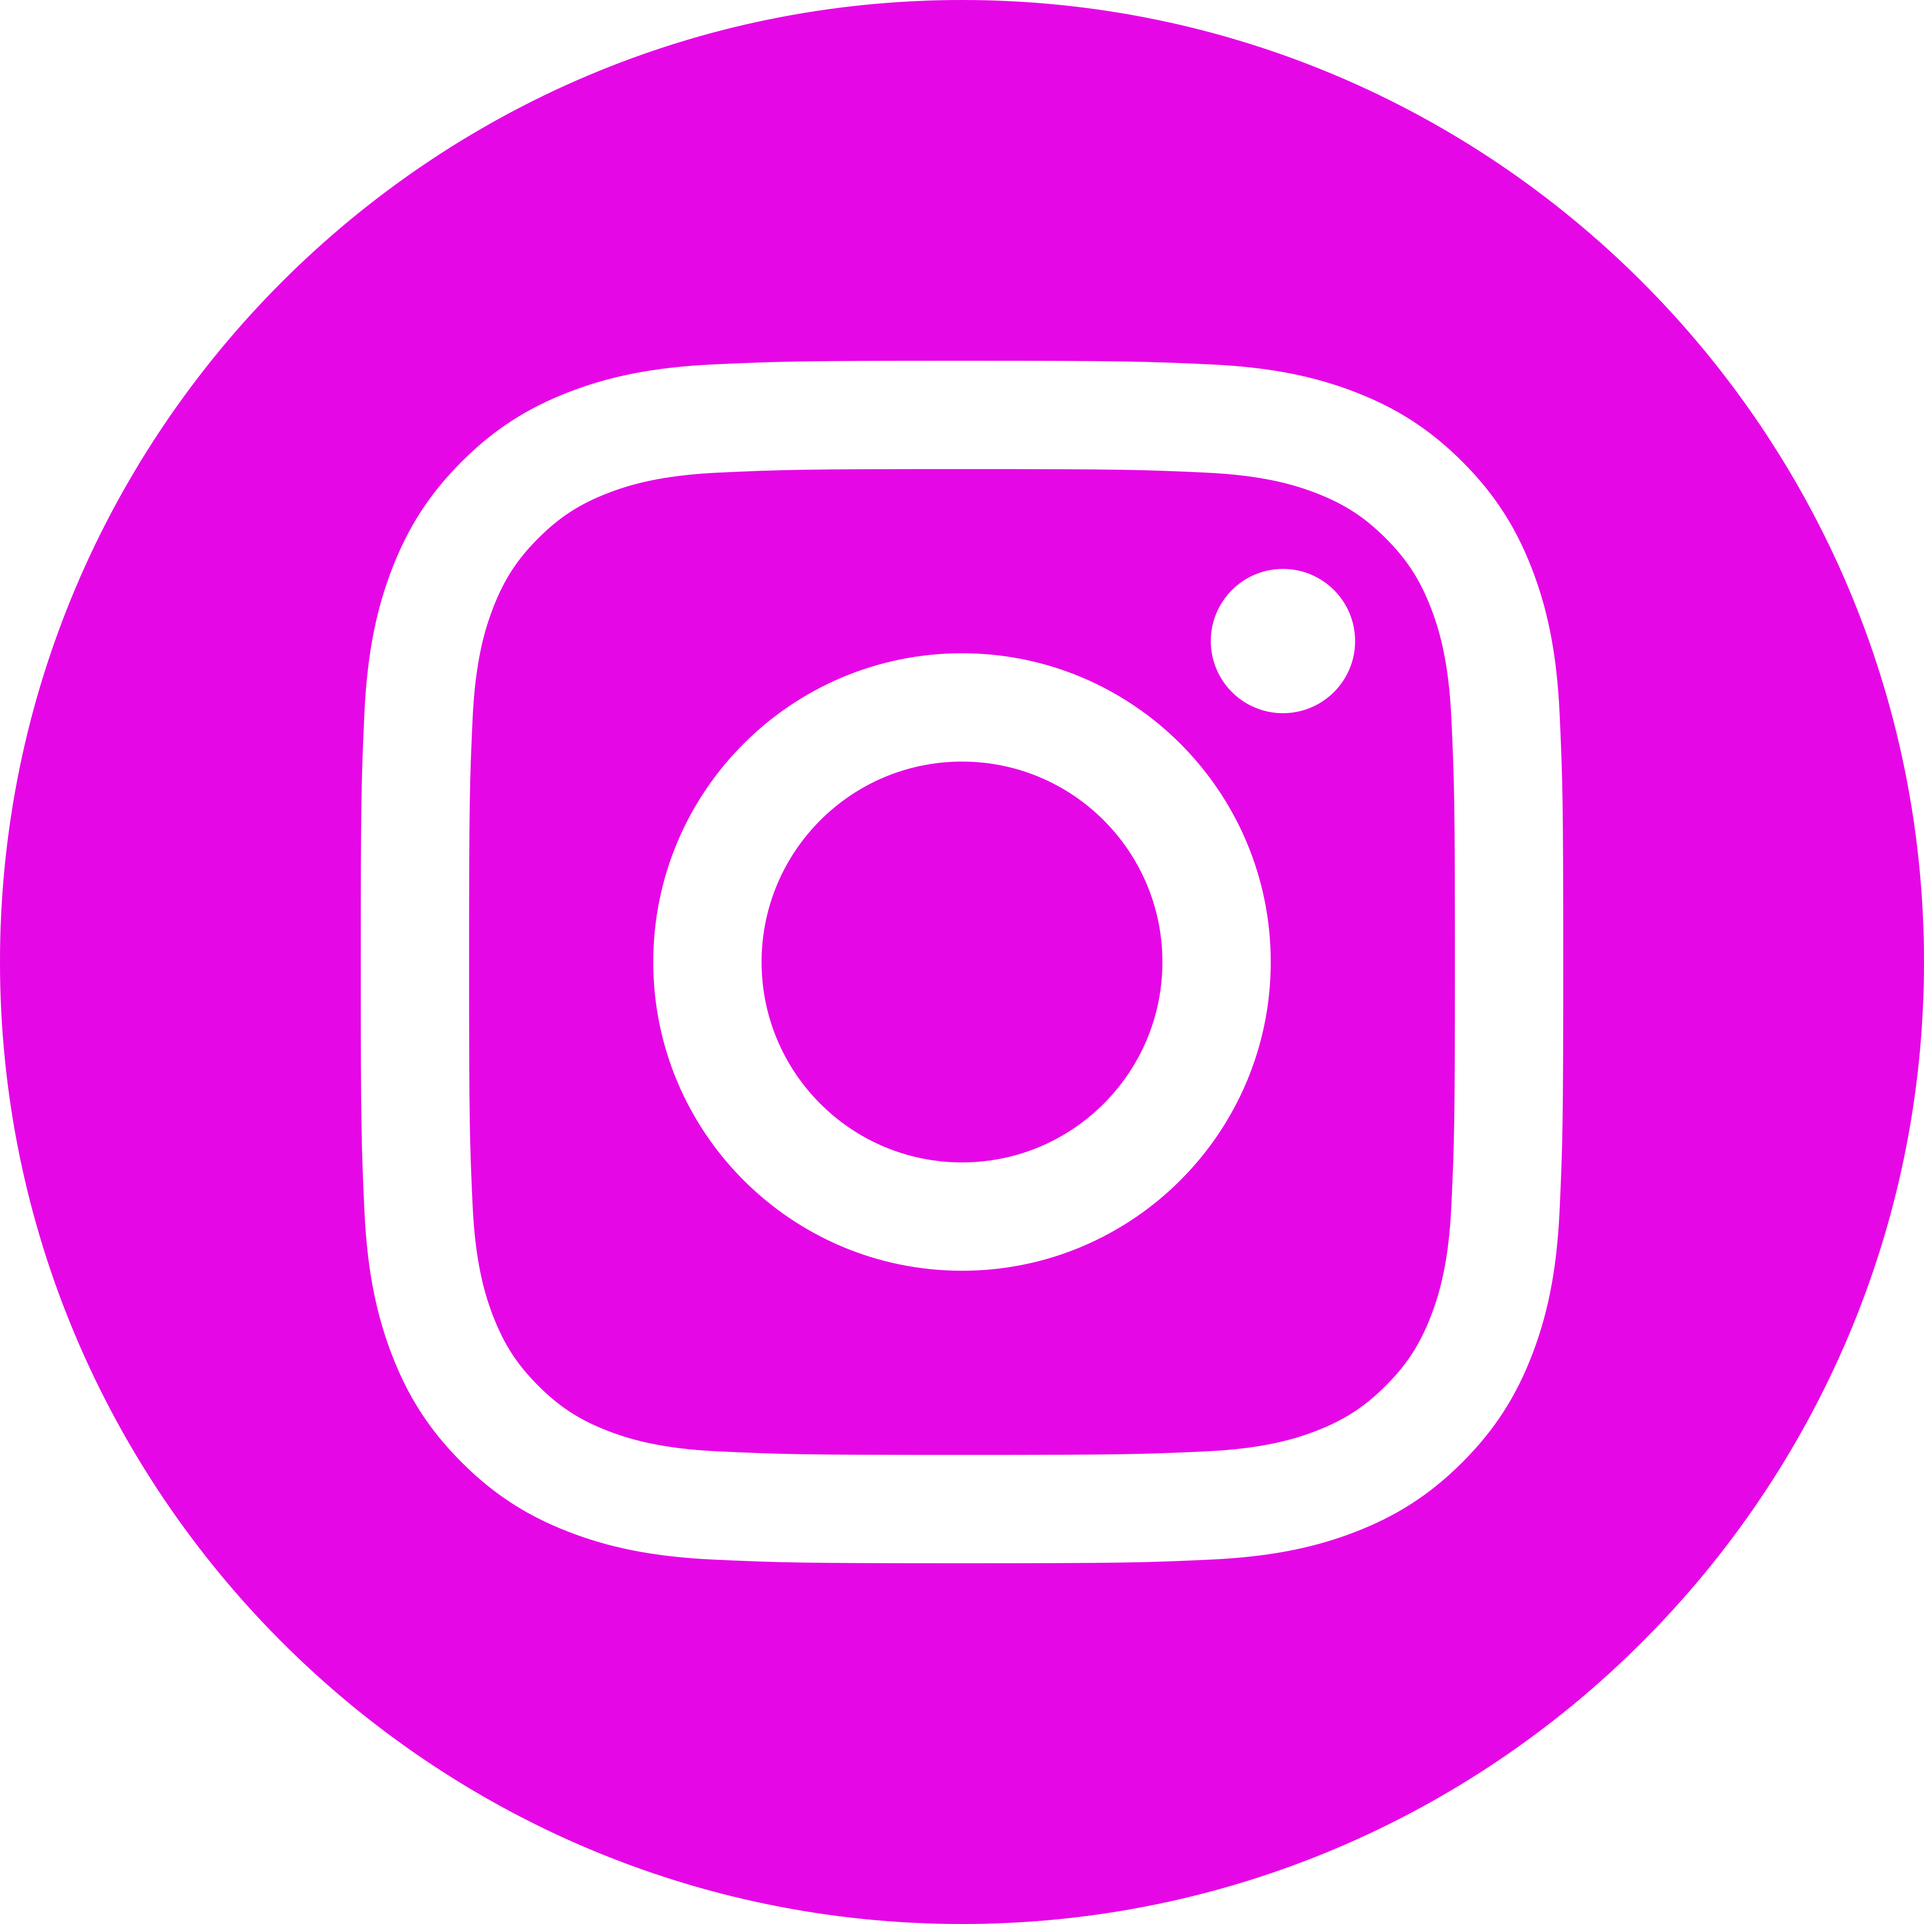
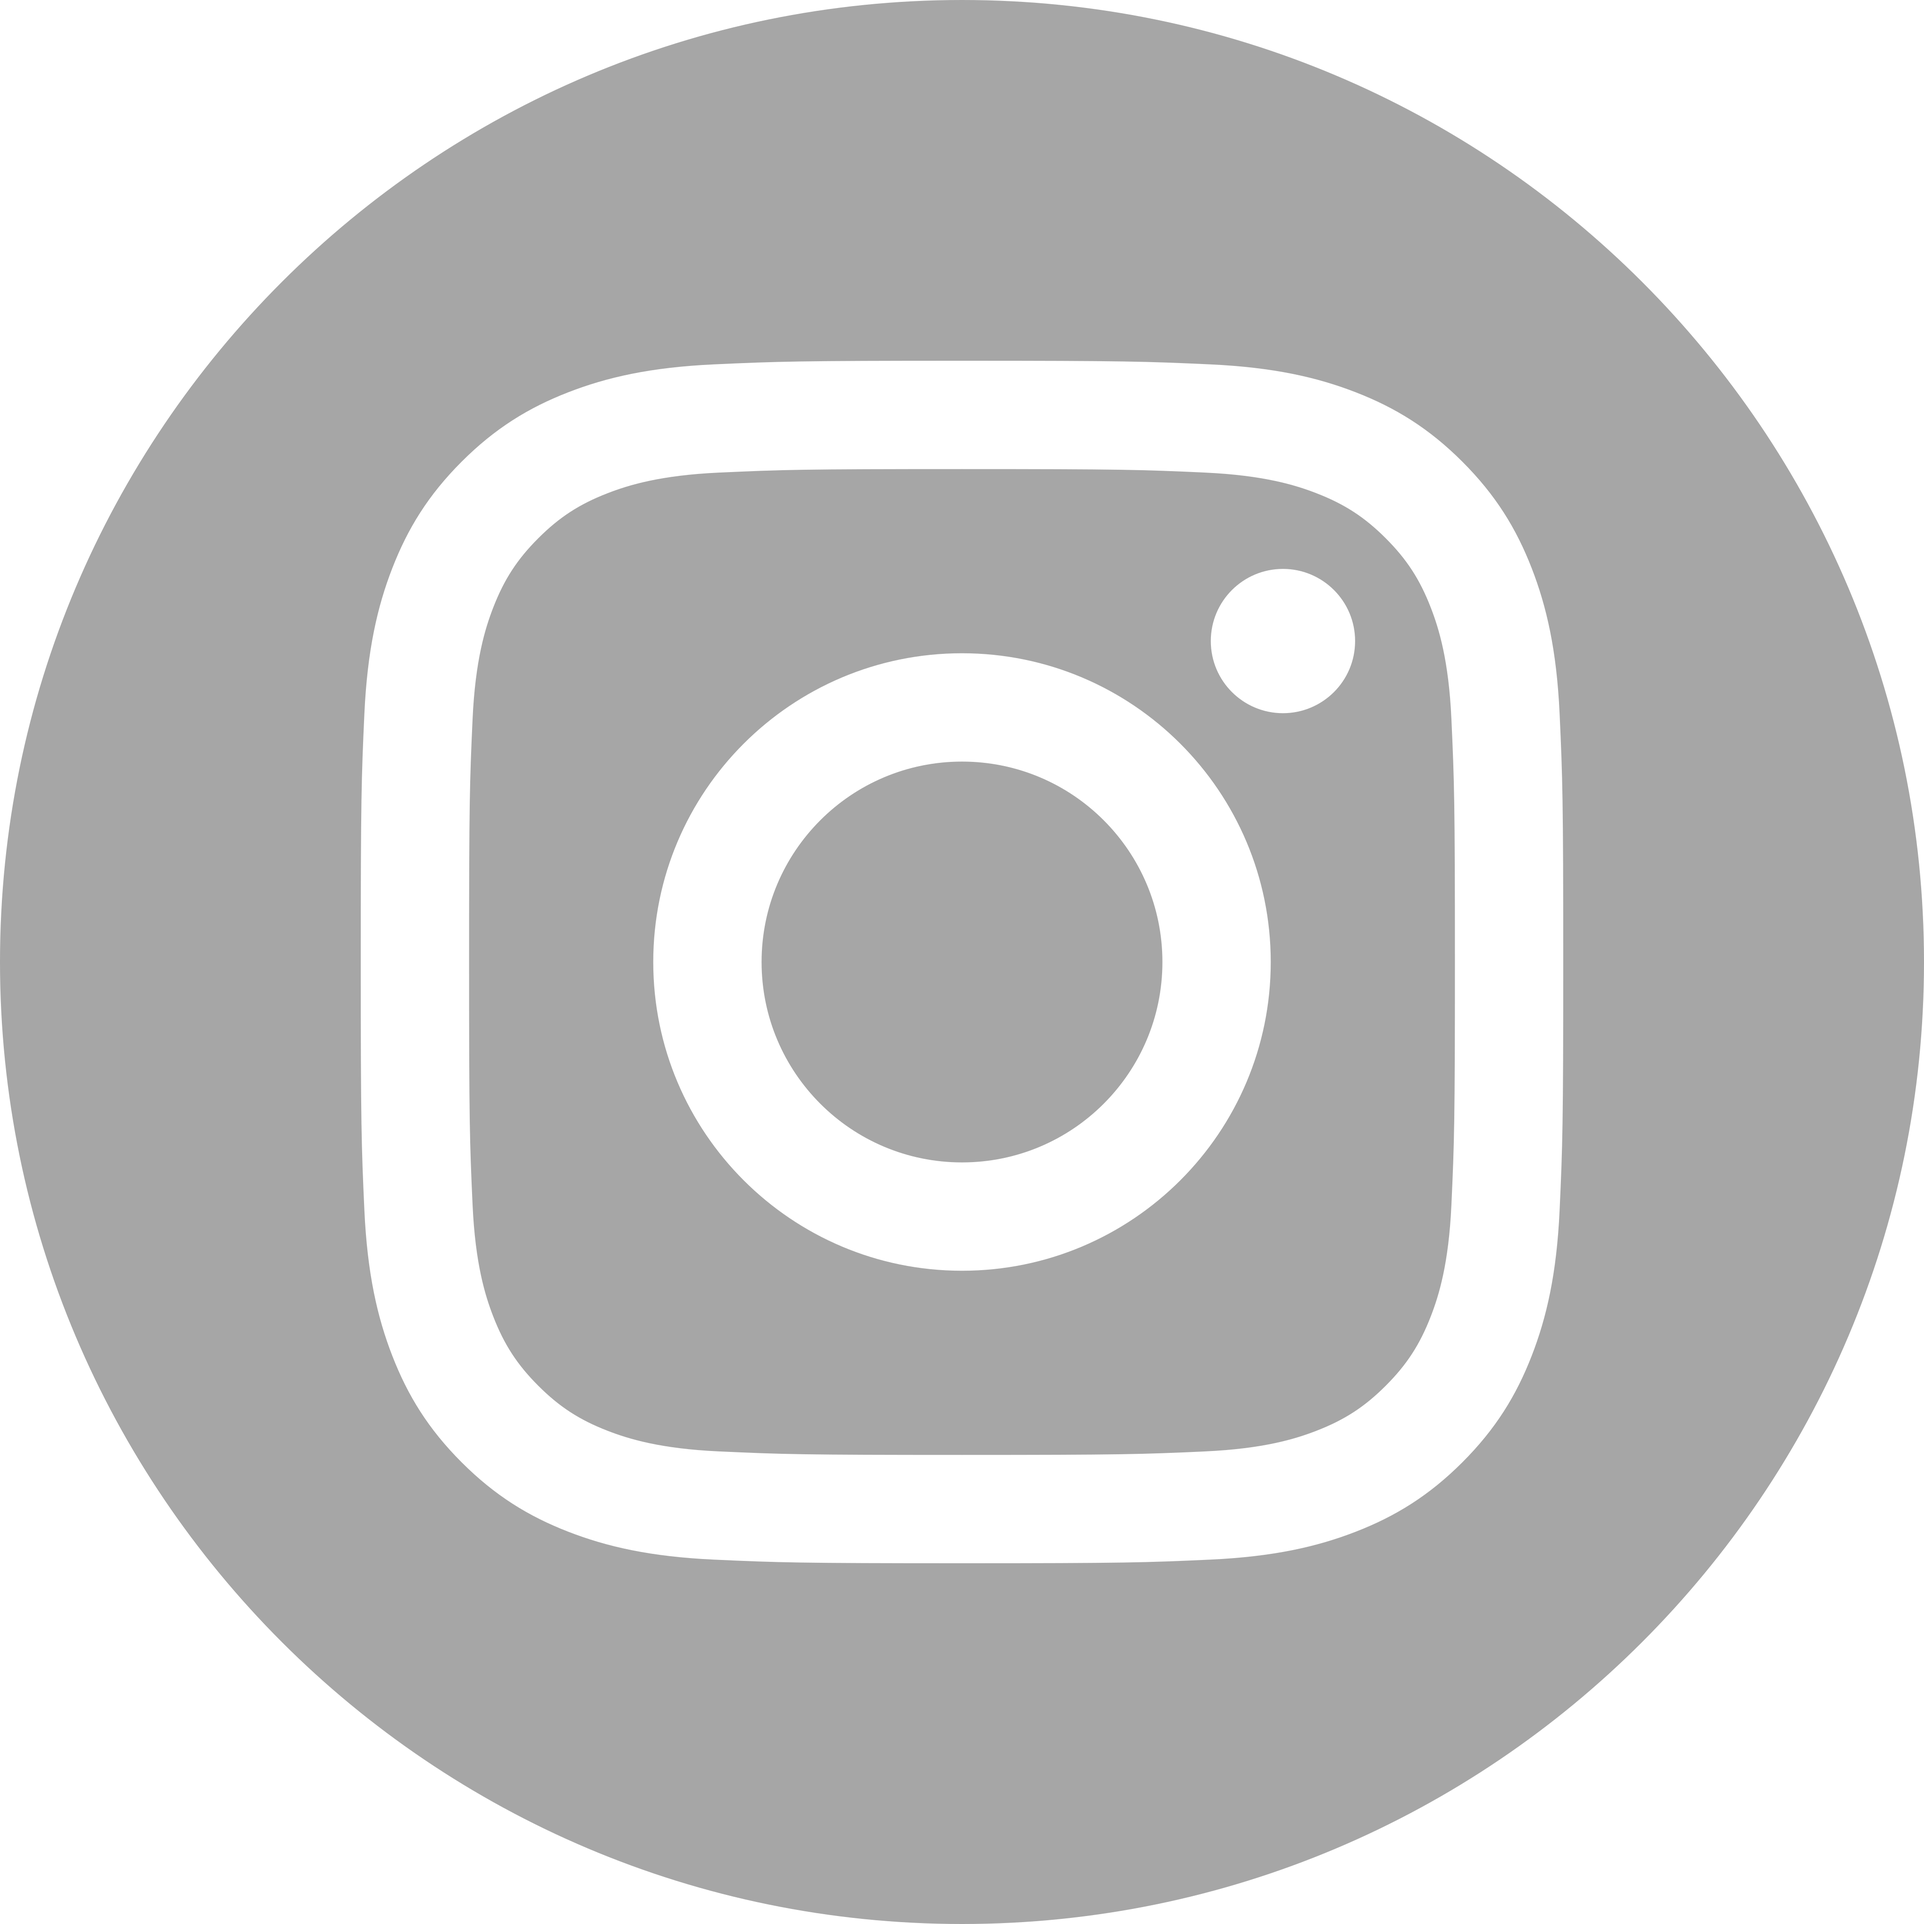
maj lune

diff --git a/site/asset/css/style.css b/site/asset/css/style.css
@@ -61,7 +61,7 @@ body {
     width: 100%;
     height: 4px;
     border-radius: 5px;
-    background-color: rgb(230, 7, 230);
+    background-color: rgba(223, 221, 226, 0.8);
     transition: transform 0.5s ease-in-out;
 }
 
@@ -164,20 +164,27 @@ ul a {
     height: 600px;
     width: 600px;
     border-radius: 600px;
-    background-color: rgb(230, 7, 230);
+    /* background-color: rgb(230, 7, 230); */
+    background-image: url(/site/asset/img/Lune_ico.png);
+    background-size: 100%;
     z-index: 0;
     position: absolute;
-    animation: rondBouge 10s ease infinite;
-    box-shadow: rgba(103, 0 ,255, 0.5) 0px 6px 41px 0px ;
+    top:-10px;
+    left:-10px;
+
+    /* animation: rondBouge 10s ease infinite; */
+    /* box-shadow: rgba(223, 221, 226, 0.5) 0px 6px 41px 0px ; */
 }
 .paralax{
-    height: 600px;
-    width: 600px;
+    height: 580px;
+    width: 580px;
+    border-radius: 580px;
     position: absolute;
     z-index: 1;
     margin-left: 8%;
     margin-top: 2%;
     opacity: 0;
+    box-shadow: rgba(223, 221, 226, 0.5) 0px 6px 41px 0px ;
 }
 .paralax.active{
     animation: fadein 2s linear;
@@ -215,13 +222,13 @@ ul a {
     transform: scale(1.3);
 }
 .xelowcorp span{
-    color: rgb(230, 7, 230);
+    color: rgba(223, 221, 226, 0.5);
 }
 #intro{
     font-size: 40px;
 }
 #intro span{
-    color: rgb(230, 7, 230);
+    color: rgba(223, 221, 226, 0.5);
 }
 
 .cache{
@@ -251,7 +258,7 @@ main{
  margin-top: 10%;
 }
 .social{
-    height: 280px;
+    height: 300px;
     display: flex;
     flex-direction: column;
     justify-content: space-around;
@@ -262,7 +269,7 @@ main{
 .social img{
     width: 50px;
     border-radius: 50px;
-    box-shadow: rgba(103, 0 ,255, 0.7) 0px 6px 41px 0px ;
+    box-shadow: rgba(223, 221, 226, 0.5) 0px 6px 41px 0px ;
 }
 .social a{
     cursor: pointer;

diff --git a/site/index.html b/site/index.html
@@ -49,9 +49,6 @@
             </p>
         </section>
         <img src="asset/img/jordanmodif.png" id="xelow" alt="">
-        <div id="cercle">
-            <img src="" alt="" id="xelow">
-        </div>
         <div class="reseau">
             <div id="twitter"></div>
             <div id="insta"></div>
@@ -59,9 +56,10 @@
         </div>
     </main>
     <div class="social">
-        <a href="https://twitter.com/xel0w" target="blank"><img src="asset/img/icone/twiter.png" alt="twitter"></a>
+        <a href="https://twitter.com/xel0w" target="blank"><img src="asset/img/icone/twit.png" alt="twitter"></a>
         <a href="https://www.instagram.com/xel0w_/" target="blank"><img src="asset/img/icone/insta.png" alt="instagram"></a>
         <a href="https://www.linkedin.com/in/jordan-byrgiel-640848221/" target="blank"><img src="asset/img/icone/linkedin.png" alt="linkedin"></a>
+        <a href="https://github.com/xel0w" target="blank"><img src="asset/img/icone/git.png" alt="github"></a>
     </div>
     <script src="asset/js/app.js"></script>
     </script>
